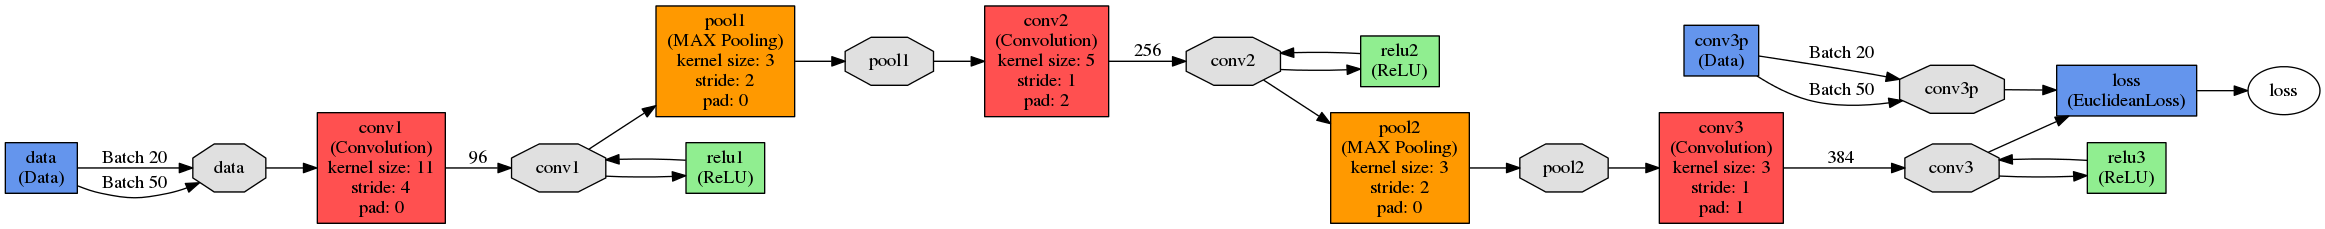
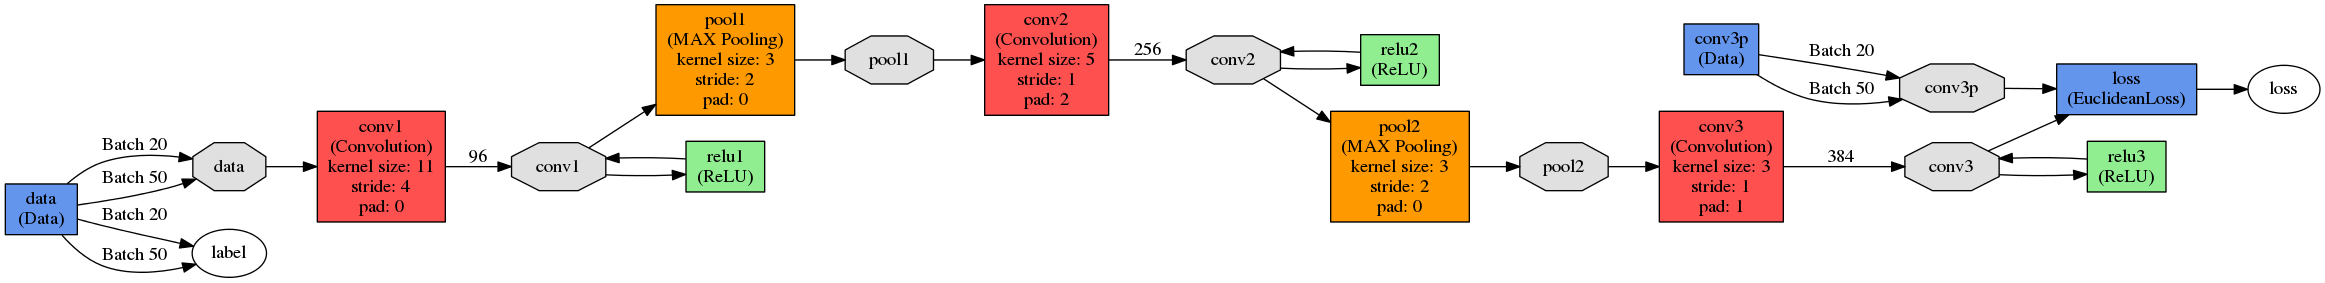
working algorithm, now need to save the solver states and do predictions

diff --git a/Code/two-nets/code/net1_training.py b/Code/two-nets/code/net1_training.py
@@ -5,55 +5,64 @@ import time
 
 solver = caffe.get_solver('../models/net1_solver.prototxt')
 
-maxIter = 2 
+maxIter = 50 
 stepPerIter = 1
 
 net2_iteration = -1
 
 for net1_iteration in range(maxIter):
 	
-	########## START OF AN ITERATION ##########	
+	print "########## START OF THE ITERATION " + str(net1_iteration) + " ##########"	
 
-	########## NET 1 FORWARD PASS START ##########
+	print "########## NET 1 FORWARD PASS START ##########"
 	
 	solver.net.forward()
 
 	image_data = solver.net.blobs['data'].data
+	labels = solver.net.blobs['label'].data
 	data_conv1 = solver.net.blobs['conv1'].data
 	data_pool1 = solver.net.blobs['pool1'].data
 	data_conv2 = solver.net.blobs['conv2'].data
 	data_pool2 = solver.net.blobs['pool2'].data
 	data_conv3 = solver.net.blobs['conv3'].data
+	data_conv3p = solver.net.blobs['conv3p'].data
 		
 	# save the output of the second convolutional layer (+pool) into a file
 	np.save('../comms/data_pool2', data_pool2)
 	
-	# send net2 info to start its computation
+	# send net1 to net2 info to start its computation
 	np.save('../comms/net1_iteration', net1_iteration)
 
-	########## NET 1 FORWARD FINISH ##########
+	# send net1 labels to net2 to align the information
+	np.save('../comms/net1_labels', labels)
+
+	print "########## NET 1 FORWARD FINISH ##########"
 		
-	######### NET 2 FORWARD AND BACKWARD PASS START ##########
+	print "######### NET 2 FORWARD AND BACKWARD PASS START ##########"
 	
 	# check if net2 has finished its computation
 	while(net1_iteration != net2_iteration):
-		time.sleep(1)	
+		time.sleep(3)
+		print "waiting..."	
 		if os.path.exists("../comms/net2_iteration.npy"):
-			net2_iteration = int(np.load("../comms/net1_iteration.npy"))
+			net2_iteration = int(np.load("../comms/net2_iteration.npy"))
 		
-	########## NET 2 FORWARD AND BACKWARD PASS FINISH ##########
+	print "########## NET 2 FORWARD AND BACKWARD PASS FINISH ##########"
 
-	########## NET 2 BACKWARD PASS START ##########
+	print "########## NET 2 BACKWARD PASS START ##########"
  	
 	# load the data produced by the second net
-	data_conv_3p = np.load("../comms/data_conv3p.npy")
+	net2_data = np.load("../comms/data_conv3p.npy")
 	
-	# not yet until we don't know how to define loss function appropriately
-	# solver.net.backward()
+	# copying the output of net2 to net1
+	for i in range(data_conv3p.shape[0]):
+		solver.net.blobs['conv3p'].data[i] = net2_data[i]
+	
+	solver.net.backward()
+	
+	print "########## NET 2 BACKWARD PASS FINISH ##########"
 
-	########## NET 2 BACKWARD PASS FINISH ##########
-
-	########## END OF THE ITERATION ##########
+	print "########## END OF THE ITERATION ##########"
 	
 	
 

diff --git a/Code/two-nets/code/net2_training.py b/Code/two-nets/code/net2_training.py
@@ -2,39 +2,45 @@ import caffe
 import os
 import numpy as np
 import time
-from subprocess import call
 
-call(["rm", "../comms/*"])
 solver = caffe.get_solver('../models/net2_solver.prototxt')
-maxIter = 2
+maxIter = 50
 stepPerIter = 1
 
 net1_iteration = -1
+np.save('../comms/net1_iteration', net1_iteration)
+np.save('../comms/net2_iteration', -1)
 
 for net2_iteration in range(maxIter):
 	
-	########## START OF AN ITERATION ##########
+	print "########## START OF THE ITERATION " + str(net2_iteration) +  " ##########"
 
-	########## NET 1 FORWARD PASS START ##########
+	print "########## NET 1 FORWARD PASS START ##########"
 
 	# We can only start an iteration once we have data ready from net1
 	print "Starting iteration " + str(net2_iteration) + " and waiting for net1's parameters"
 	while(net1_iteration != net2_iteration):
 		# tiny delay to prevent accessing an open file
-		time.sleep(1)	
+		time.sleep(3)	
+		print "waiting..."
 		if os.path.exists("../comms/net1_iteration.npy"):
 			net1_iteration = int(np.load("../comms/net1_iteration.npy"))
 
 	# Loading the parameters from net1
 	data_pool2 = np.load("../comms/data_pool2.npy")
+	labels = np.load("../comms/net1_labels.npy")	
 
-	# copying the net1 parameters into data of net 2
+	# copying the net1 output into data of net 2
 	for i in range(data_pool2.shape[0]):
 		solver.net.blobs['data2'].data[i] = data_pool2[i]
 
-	########## NET 1 FORWARD PASS FINISH ##########
+	# copying the labels
+	for i in range(len(labels)):
+		solver.net.blobs['label'].data[i] = labels[i]
 
-	########## NET 2 FORWARD AND BACKWARD PASS START ##########
+	print "########## NET 1 FORWARD PASS FINISH ##########"
+
+	print "########## NET 2 FORWARD AND BACKWARD PASS START ##########"
 	
 	solver.step(1)	
 
@@ -50,11 +56,11 @@ for net2_iteration in range(maxIter):
 	# save the data produced by conv2 and give it to the other net
 	np.save("../comms/data_conv3p", data_conv3p)
 
-	########## NET 2 FORWARD AND BACKWARD PASS FINISH ##########
+	print "########## NET 2 FORWARD AND BACKWARD PASS FINISH ##########"
 	
-	########## NET 1 BACKWARD PASS START  ##########
+	print "########## NET 1 BACKWARD PASS START  ##########"
 
 	np.save('../comms/net2_iteration', net2_iteration)
 
-	########## NET 1 BACKWARD PASS FINISH ##########
+	print "########## NET 1 BACKWARD PASS FINISH ##########"
 
